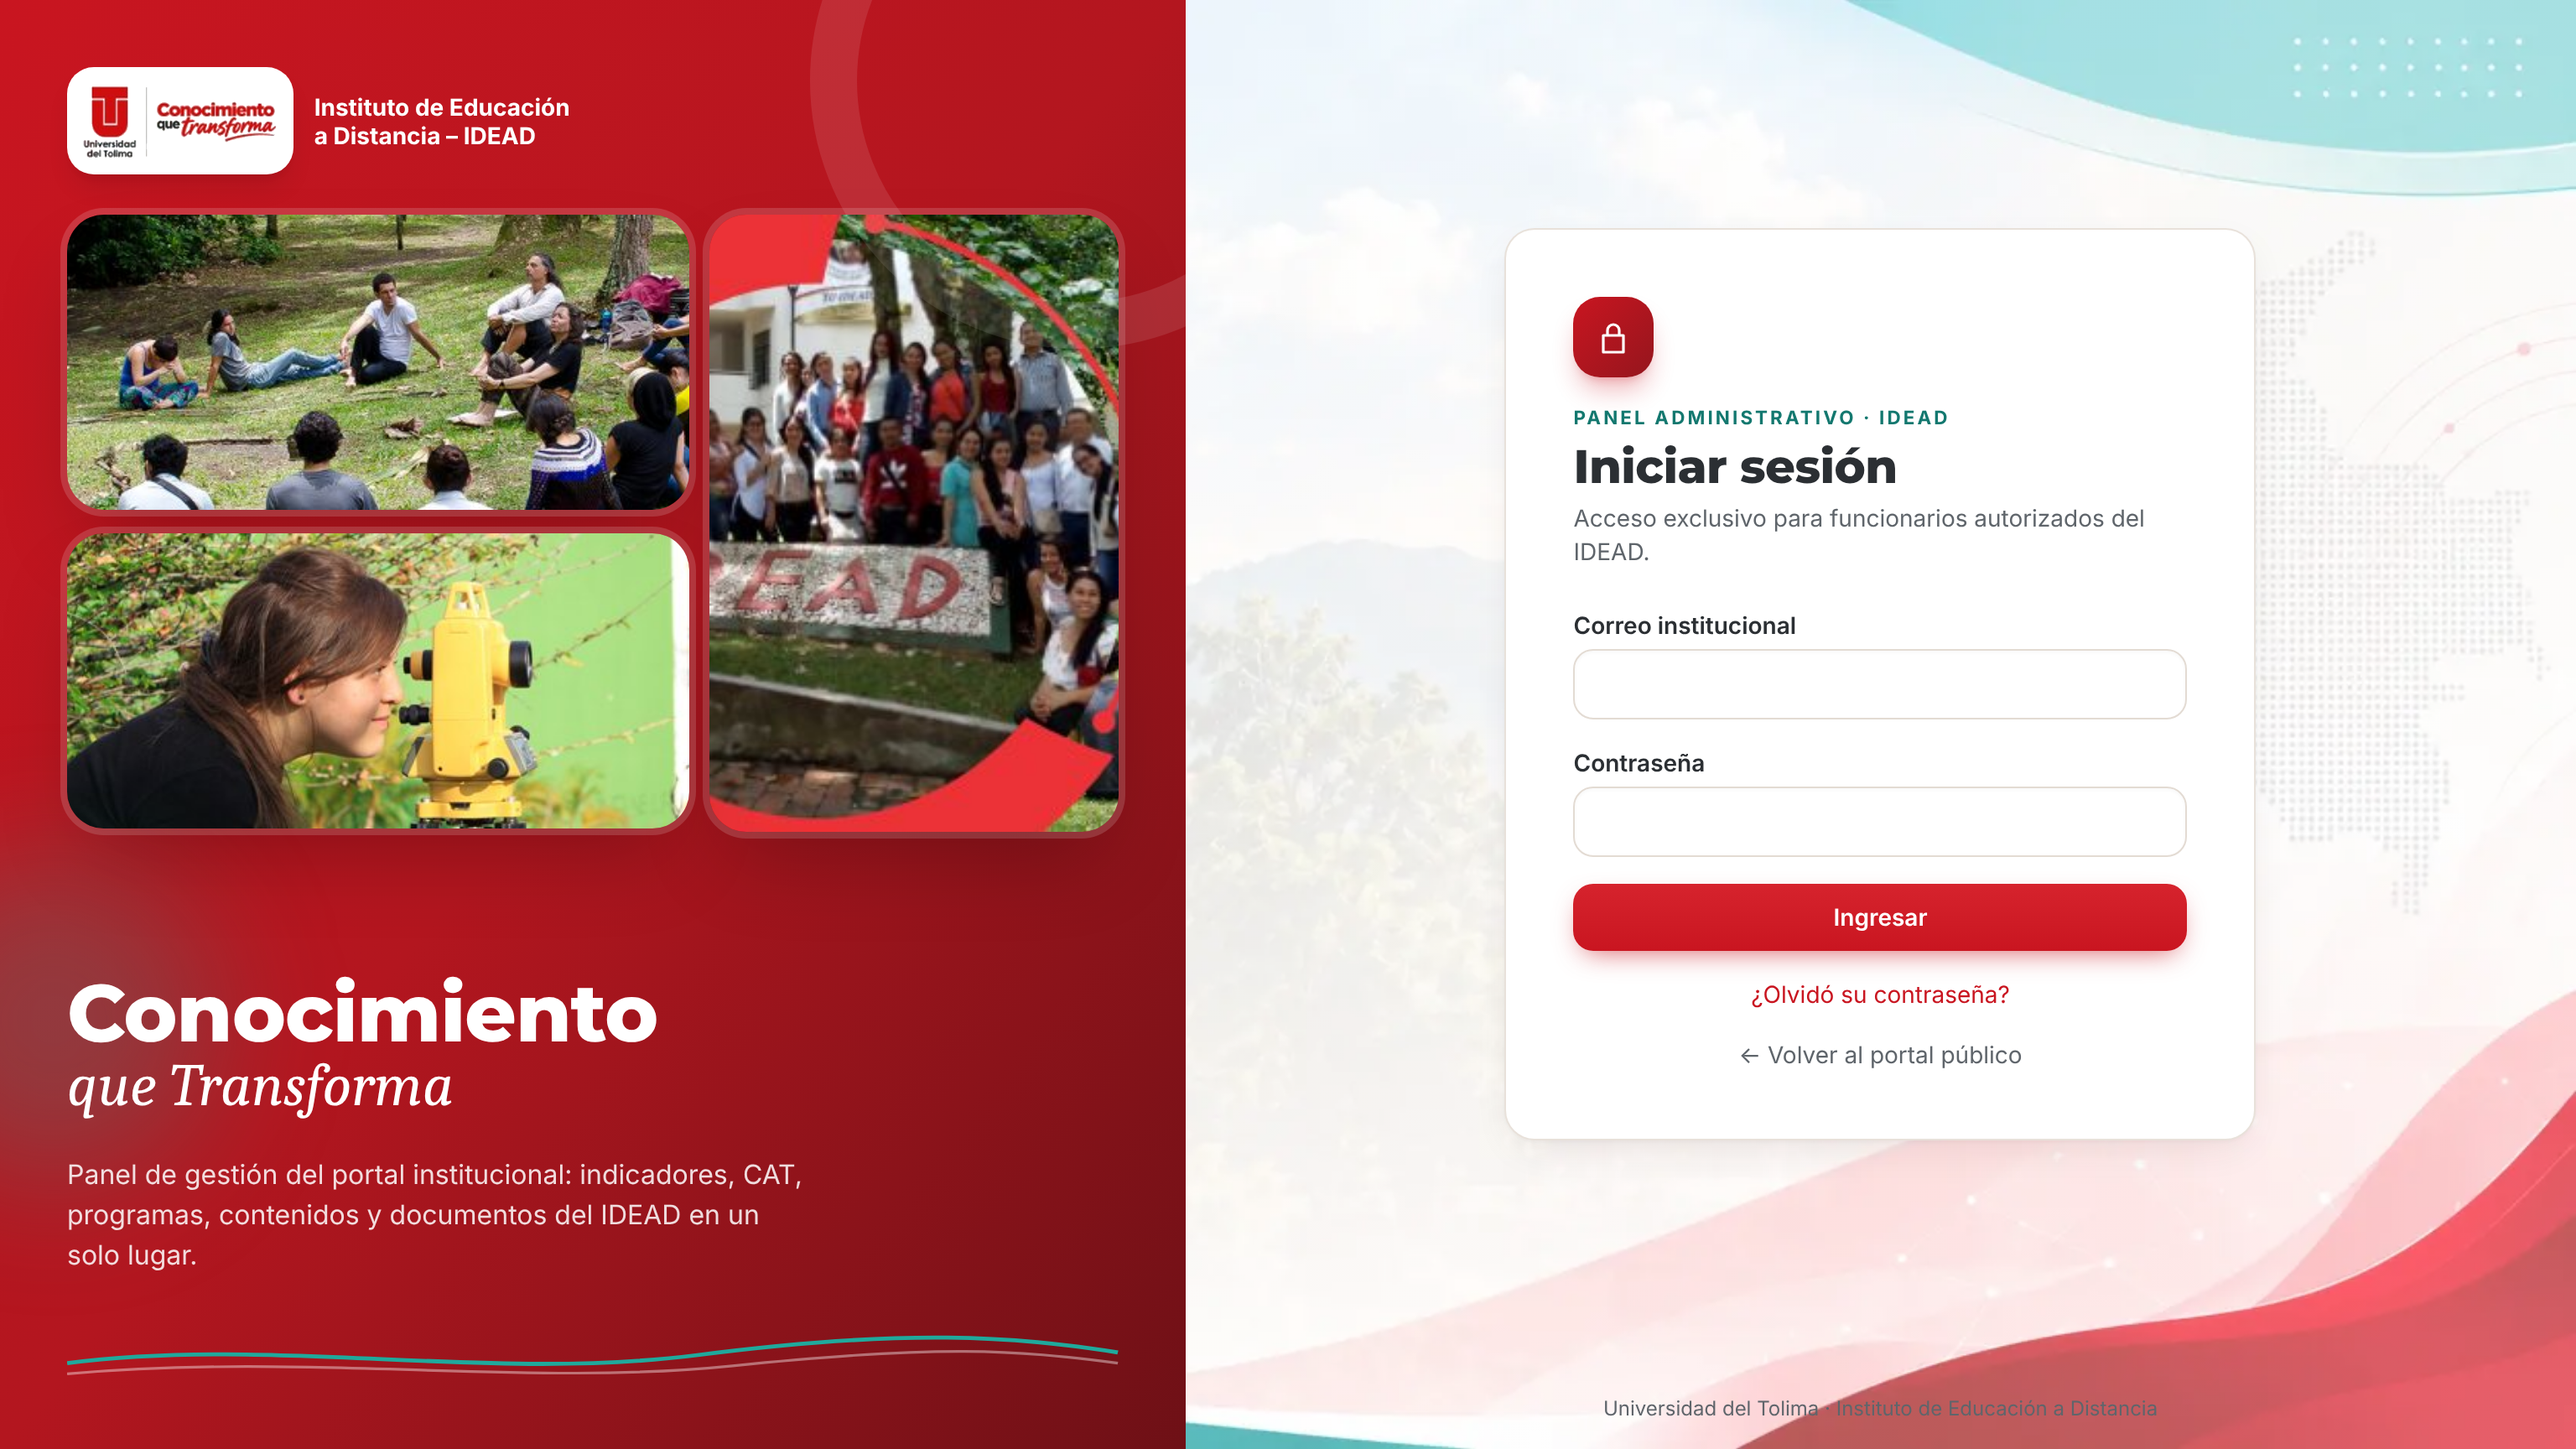
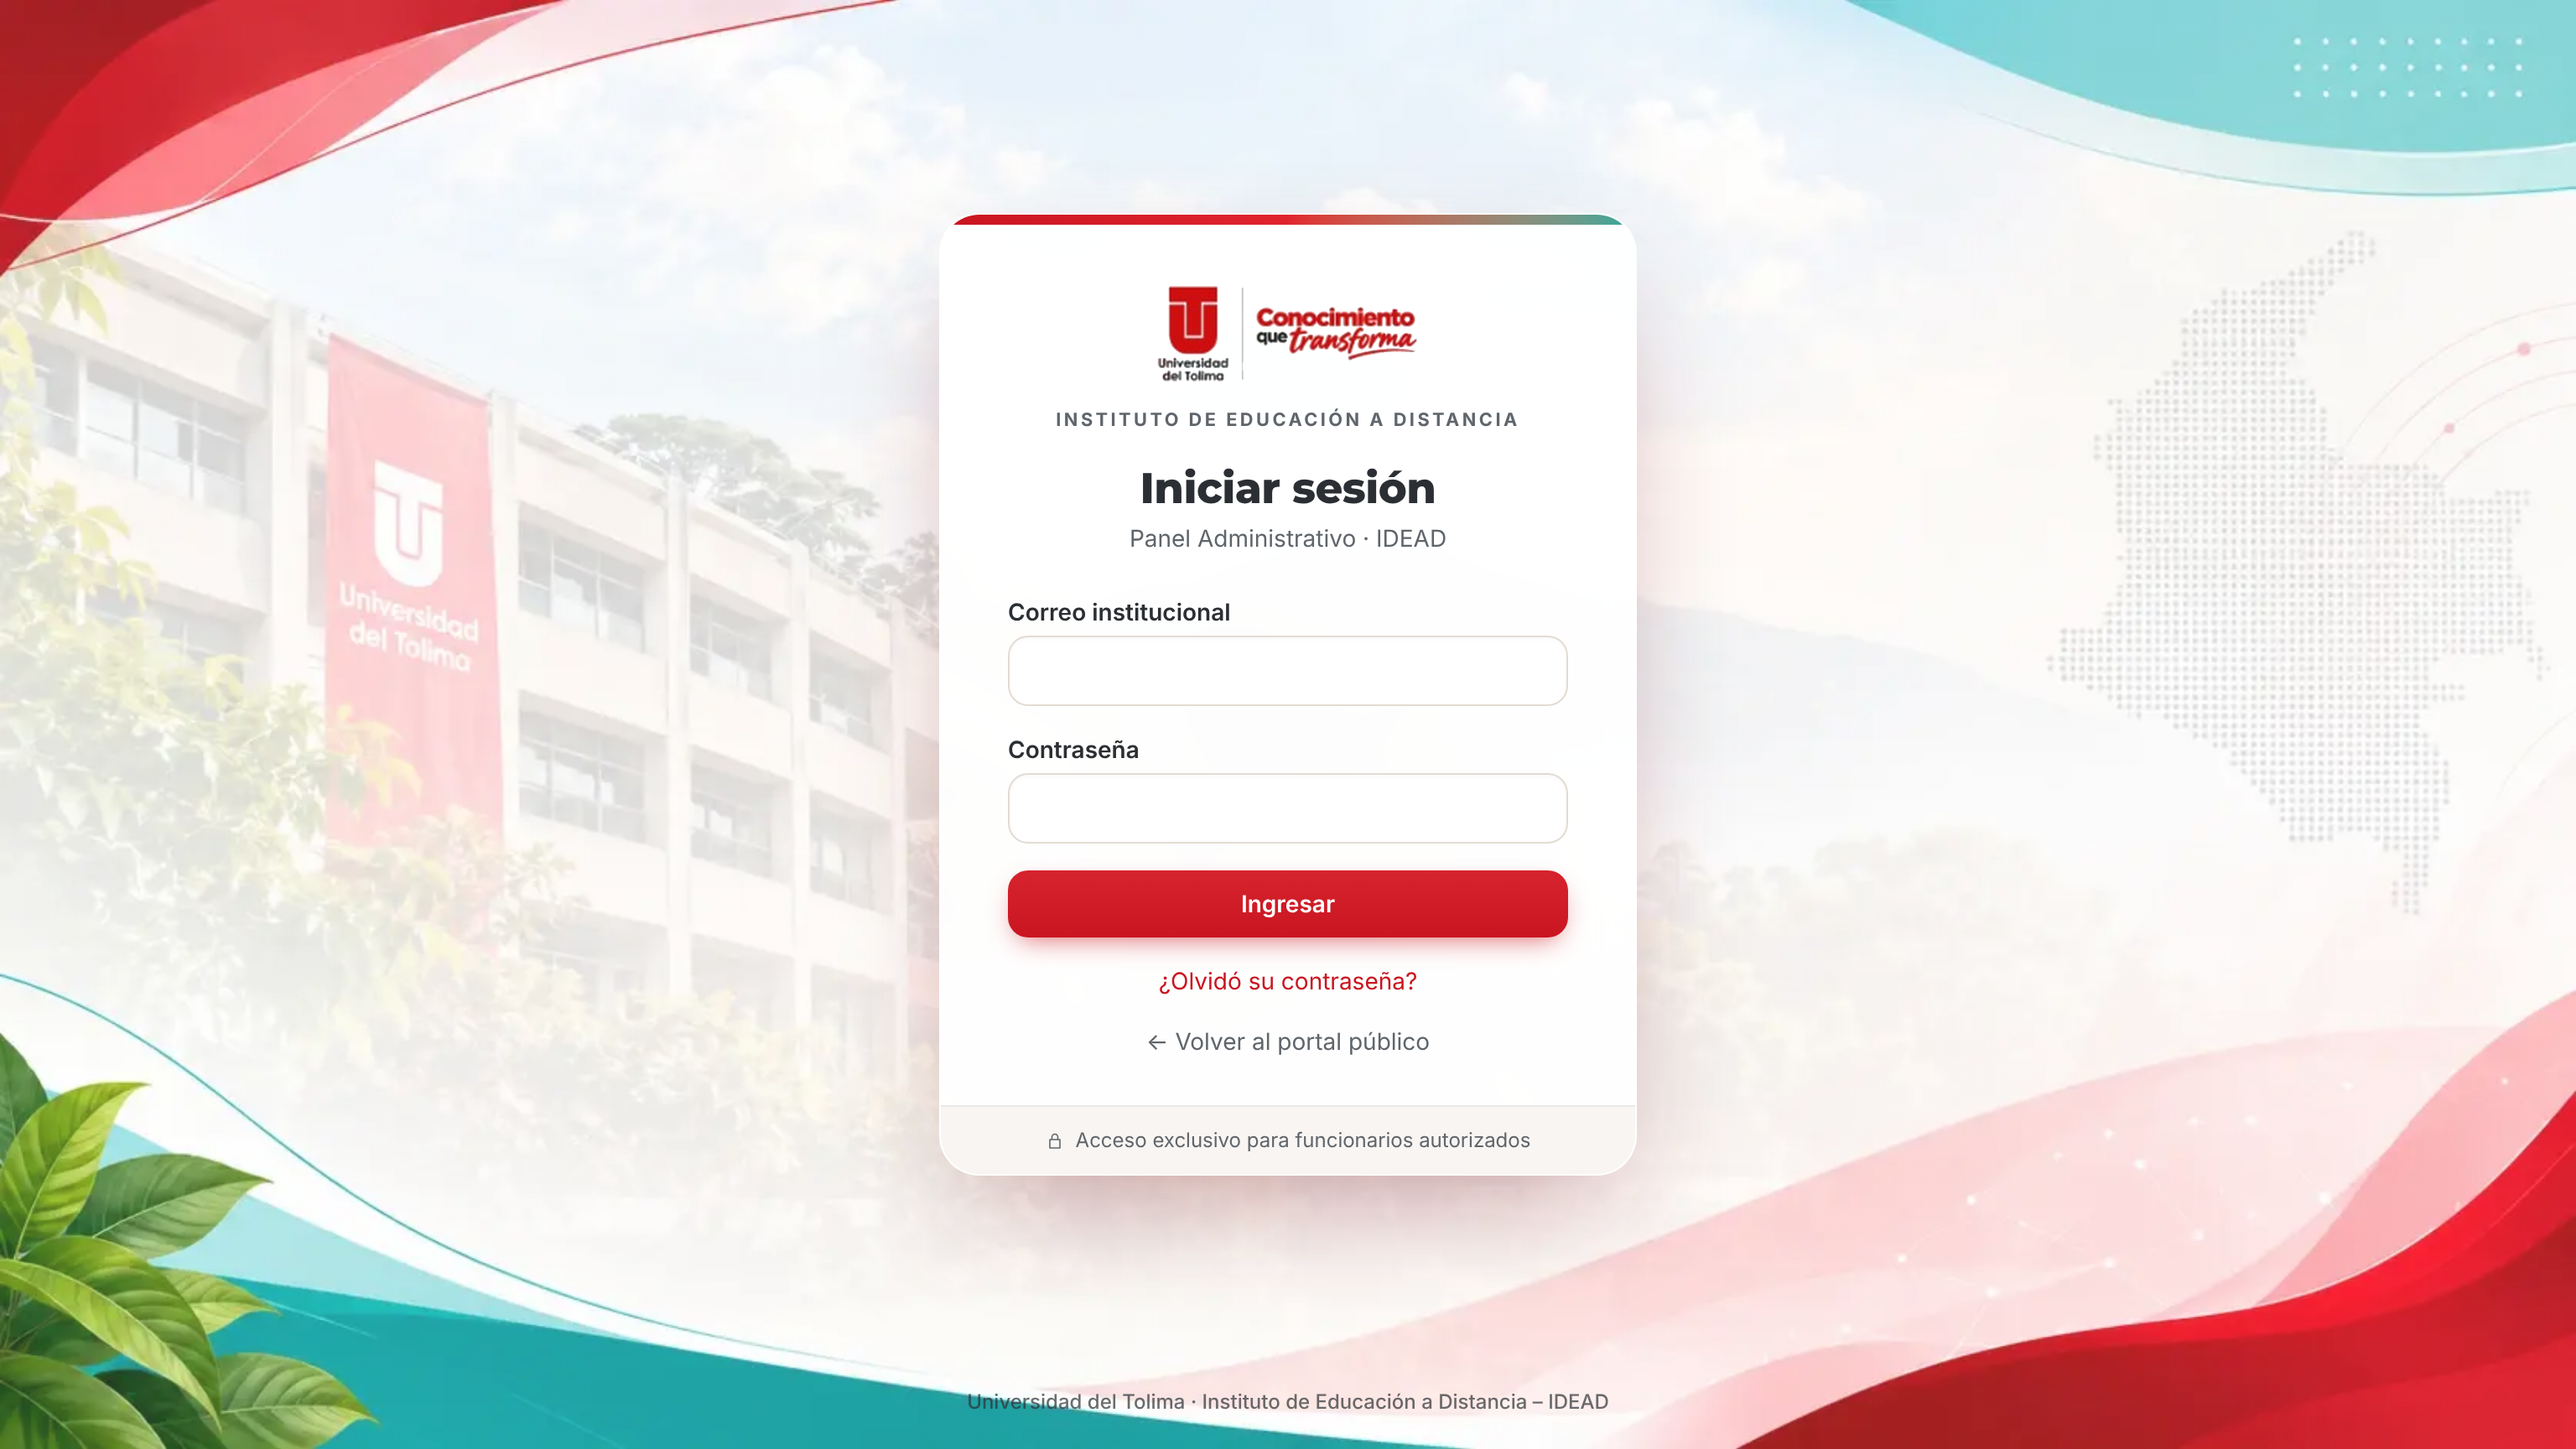
Inicio de sesión: tarjeta centrada sobre el fondo institucional
Claude-Session: https://claude.ai/code/session_014ctFE7V2zPbLNyr5RVfDEh

diff --git a/frontend/src/admin/pages/AuthPages.tsx b/frontend/src/admin/pages/AuthPages.tsx
@@ -7,45 +7,28 @@ import { PageHeader } from '../components/PageHeader';
 import { useAuth, type Me } from '../auth';
 import { Button, inputCls, Notice } from '../components/Form';
 
+/** Pantallas de acceso: fondo institucional (edificio UT con ondas) y una tarjeta centrada. */
 function Frame({ title, children }: { title: string; children: React.ReactNode }) {
   return (
-    <div className="admin-ui admin-bg-login flex min-h-screen">
-      {/* Panel institucional: fotografía real del IDEAD sobre degradado rojo, círculos y lema */}
-      <aside className="relative hidden w-[46%] overflow-hidden bg-gradient-to-br from-ut-red via-[#b3161f] to-ut-red-900 text-white lg:flex lg:flex-col">
-        <div className="absolute top-32 right-10 left-10 grid grid-cols-5 grid-rows-2 gap-3" aria-hidden>
-          <img src="/img/home/estudiantes-circulo.jpg" alt="" className="col-span-3 h-44 w-full rounded-[1.375rem] object-cover shadow-2xl ring-4 ring-white/15" />
-          <img src="/img/home/grupo-idead.jpg" alt="" className="col-span-2 row-span-2 h-[23rem] w-full rounded-[1.375rem] object-cover shadow-2xl ring-4 ring-white/15" />
-          <img src="/img/home/estudiante-campo.jpg" alt="" className="col-span-3 h-44 w-full rounded-[1.375rem] object-cover shadow-2xl ring-4 ring-white/15" />
-        </div>
-        <span className="absolute -top-28 -right-24 h-80 w-80 rounded-full border-[28px] border-white/10" aria-hidden />
-        <span className="absolute bottom-40 -left-16 h-48 w-48 rounded-full bg-idead-teal/25 blur-2xl" aria-hidden />
-        <div className="relative flex items-center gap-3 p-10">
-          <span className="rounded-2xl bg-white p-2 shadow-lg"><img src="/img/logo-ut-temporal.png" alt="Universidad del Tolima" className="h-12 w-auto" /></span>
-          <span className="text-sm leading-tight font-bold">Instituto de Educación<br />a Distancia – IDEAD</span>
-        </div>
-        <div className="relative mt-auto p-10">
-          <p className="font-display text-5xl leading-none font-extrabold">Conocimiento</p>
-          <p className="font-serif text-4xl italic">que Transforma</p>
-          <p className="mt-5 max-w-md text-white/85">Panel de gestión del portal institucional: indicadores, CAT, programas, contenidos y documentos del IDEAD en un solo lugar.</p>
-          <svg className="mt-8 h-8 w-full" viewBox="0 0 600 40" preserveAspectRatio="none" aria-hidden><path d="M0 26 C 120 6, 240 40, 360 20 S 540 6, 600 18" stroke="#20a99c" strokeWidth="3" fill="none" /><path d="M0 34 C 140 18, 260 44, 380 28 S 540 16, 600 26" stroke="#fff" strokeOpacity=".4" strokeWidth="2" fill="none" /></svg>
-        </div>
-      </aside>
-      <div className="flex flex-1 flex-col">
-        <div className="grid flex-1 place-items-center p-4 md:p-8">
-          <main className="admin-card fade-in w-full max-w-md p-8 md:p-10">
-            <div className="mb-6 flex items-center gap-3 lg:hidden">
-              <img src="/img/logo-ut-temporal.png" alt="Universidad del Tolima" className="h-12 w-auto" />
-              <span className="border-l border-gray-300 pl-3 text-[0.7rem] leading-tight font-medium text-ink uppercase">Instituto de<br />Educación<br />a Distancia</span>
+    <div className="admin-ui admin-bg-login flex min-h-screen flex-col">
+      <div className="grid flex-1 place-items-center px-4 py-10">
+        <main className="fade-in w-full max-w-[26rem] overflow-hidden rounded-[1.5rem] border border-white/80 bg-white/92 shadow-[0_30px_70px_-25px_rgb(120_20_30/0.45)] backdrop-blur-md">
+          <div className="h-1.5 bg-gradient-to-r from-ut-red via-[#e0242e] to-idead-teal" aria-hidden />
+          <div className="px-8 pt-8 pb-7 md:px-10">
+            <div className="flex flex-col items-center text-center">
+              <img src="/img/logo-ut-temporal.png" alt="Universidad del Tolima — Conocimiento que transforma" className="h-16 w-auto" />
+              <p className="mt-3 text-[0.68rem] font-bold tracking-[0.16em] text-muted uppercase">Instituto de Educación a Distancia</p>
+              <h1 className="mt-4 text-[1.6rem] leading-tight font-extrabold text-ink">{title}</h1>
+              <p className="mt-1 text-sm text-muted">Panel Administrativo · IDEAD</p>
             </div>
-            <span className="grid h-12 w-12 place-items-center rounded-2xl bg-gradient-to-br from-ut-red to-ut-red-dark text-2xl text-white shadow-lg shadow-ut-red/30"><Icon name="lock" /></span>
-            <p className="mt-4 text-[0.7rem] font-bold tracking-[0.14em] text-idead-teal-dark uppercase">Panel Administrativo · IDEAD</p>
-            <h1 className="text-[1.75rem] font-extrabold text-ink">{title}</h1>
-            <p className="mb-6 text-sm text-muted">Acceso exclusivo para funcionarios autorizados del IDEAD.</p>
-            {children}
-          </main>
-        </div>
-        <footer className="px-4 py-4 text-center text-xs text-muted">Universidad del Tolima · Instituto de Educación a Distancia</footer>
+            <div className="mt-6">{children}</div>
+          </div>
+          <p className="flex items-center justify-center gap-1.5 border-t border-line/70 bg-ivory/70 px-6 py-3 text-center text-xs text-muted">
+            <Icon name="lock" /> Acceso exclusivo para funcionarios autorizados
+          </p>
+        </main>
       </div>
+      <footer className="px-4 pb-5 text-center text-xs font-medium text-ink/70">Universidad del Tolima · Instituto de Educación a Distancia – IDEAD</footer>
     </div>
   );
 }

diff --git a/frontend/src/styles.css b/frontend/src/styles.css
@@ -86,7 +86,7 @@ body { @apply bg-white text-ink antialiased; font-size: 16px; }
   background-attachment: fixed;
 }
 .admin-bg-login {
-  background: linear-gradient(rgb(255 255 255 / 0.35), rgb(255 255 255 / 0.35)), url('/img/fondos/fondo-edificio.webp') center / cover no-repeat;
+  background: linear-gradient(rgb(255 255 255 / 0.12), rgb(255 255 255 / 0.12)), url('/img/fondos/fondo-edificio.webp') center / cover no-repeat fixed;
 }
 .admin-card { background: #fff; border: 1px solid rgb(230 222 214 / 0.9); border-radius: var(--radius-card); box-shadow: var(--shadow-card); }
 .admin-card-hover { transition: transform .2s ease, box-shadow .2s ease, border-color .2s ease; }
